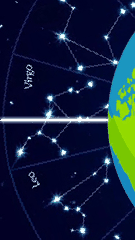
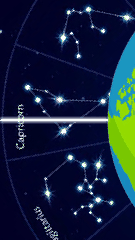
museum art

diff --git a/Lab 2/astrology_clock.py b/Lab 2/astrology_clock.py
@@ -32,10 +32,10 @@ def get_current_zodiac(simulate_time_passing, increment):
             days_in_sign = (end_date - start_date).days + 1
             day_of_sign = (now - start_date).days
             progress = day_of_sign / days_in_sign
+            print(now)
             return sign, progress
 
     # Default return if no zodiac range matches.
-    # Adjust as necessary, this is just an example.
     return "Unknown", 0.0
 
 # Create the clock image
@@ -48,8 +48,9 @@ def create_astrology_clock(simulate_time_passing, increment):
     # earth = earth.resize((100, 100))
 
     # Calculate rotation based on current zodiac and progress
-    _, progress = get_current_zodiac(simulate_time_passing, increment)
-    rotation = 278 + (360 * progress)
+    sign, progress = get_current_zodiac(simulate_time_passing, increment)
+    # print(sign, progress)
+    rotation = (360 * progress)
 
     # Rotate zodiac
     zodiac_background = zodiac_background.rotate(rotation)

diff --git a/Lab 2/screen_clock.py b/Lab 2/screen_clock.py
@@ -51,7 +51,6 @@ backlight = digitalio.DigitalInOut(board.D22)
 backlight.switch_to_output()
 backlight.value = True
 
-
 # Scale the image to the smaller screen dimension
 image_ratio = image.width / image.height
 screen_ratio = width / height
@@ -69,7 +68,7 @@ y = scaled_height // 2 - height // 2
 image = image.crop((x, y, x + width, y + height))
 
 days_passed = 0
-SIMULATE_TIME_PASSING = False
+SIMULATE_TIME_PASSING = True
 
 while True:
     # Draw a black filled box to clear the image.

diff --git a/Lab 2/README.md b/Lab 2/README.md
@@ -205,6 +205,9 @@ Can you make time interactive? You can look in `screen_test.py` for examples for
 
 Please sketch/diagram your clock idea. (Try using a [Verplank digram](http://www.billverplank.com/IxDSketchBook.pdf)!
 
+<img src="images/sketch1.jpg">
+<img src="images/sketch2.jpeg">
+
 **We strongly discourage and will reject the results of literal digital or analog clock display.**
 
 
